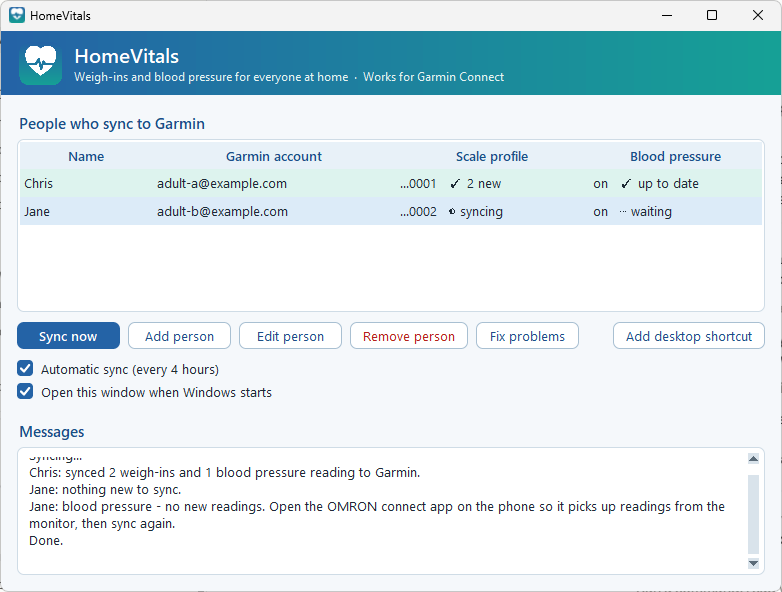
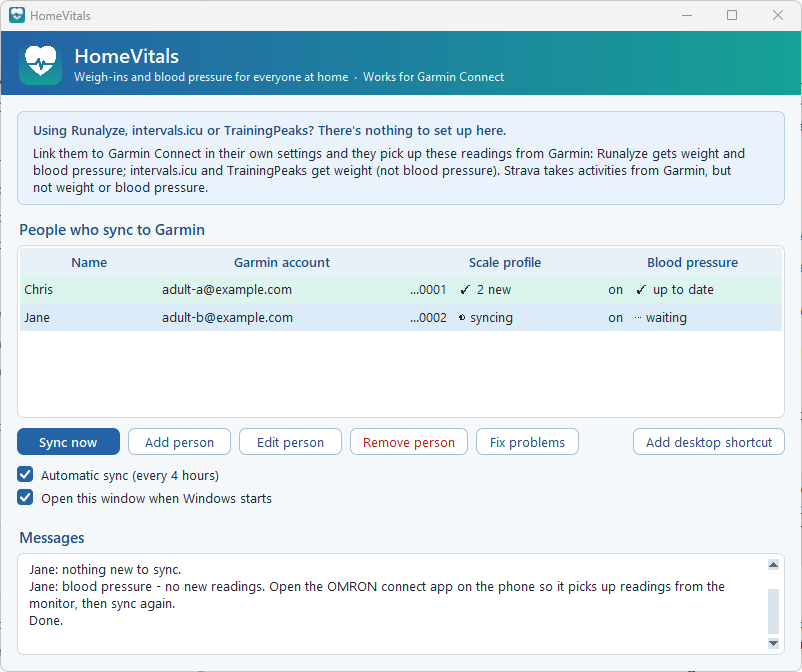
1.0.1: note that Runalyze, intervals.icu and TrainingPeaks need no setup in HomeVitals
They import the readings from Garmin Connect (Runalyze: weight and blood pressure;
intervals.icu and TrainingPeaks: weight). Strava imports activities only.

diff --git a/homevitals/gui.py b/homevitals/gui.py
@@ -95,7 +95,7 @@ class App:
         self.tray = None                 # set by main() when the tray icon is showing
         self._told_about_tray = False
         root.title(TITLE)
-        root.minsize(780, 540)
+        root.minsize(780, 600)
         root.protocol("WM_DELETE_WINDOW", self.on_close)
         icon = gui_logic.icon_path()
         if icon is not None:
@@ -115,6 +115,14 @@ class App:
 
         outer = ttk.Frame(root, padding=(PAD * 2, PAD * 2, PAD * 2, PAD * 2))
         outer.pack(fill="both", expand=True)
+
+        note = ttk.Frame(outer, style="Note.TFrame", padding=(PAD + 6, PAD, PAD + 6, PAD))
+        note.pack(fill="x", pady=(0, PAD + 4))
+        self.other_apps_note = note
+        ttk.Label(note, text=gui_logic.OTHER_APPS_NOTE_TITLE, style="NoteTitle.TLabel", wraplength=720,
+                  justify="left").pack(anchor="w")
+        ttk.Label(note, text=gui_logic.OTHER_APPS_NOTE, style="Note.TLabel", wraplength=720,
+                  justify="left").pack(anchor="w", pady=(2, 0))
 
         ttk.Label(outer, text="People who sync to Garmin", style="Title.TLabel").pack(anchor="w")
         self.list_frame = ttk.Frame(outer, style="Panel.TFrame", padding=(3, 3))

diff --git a/homevitals/theme.py b/homevitals/theme.py
@@ -27,6 +27,8 @@ MUTED = "#5B6B78"
 DANGER = "#B42318"
 DISABLED_TEXT = "#9AA8B3"
 SELECTED = "#C9DFF2"
+NOTE_BG = "#EAF3FB"
+NOTE_BORDER = "#B7D3EC"
 
 FONT = ("Segoe UI", 10)
 FONT_BOLD = ("Segoe UI Semibold", 10)
@@ -215,6 +217,12 @@ def apply(root: tk.Misc) -> ttk.Style:
     # Cards: the account boxes (window colour inside) and the white panels (list, messages).
     _element(style, "Card.border", root, {"": (BG, BORDER)})
     _element(style, "Panel.border", root, {"": (PANEL, BORDER)})
+    # The soft blue note card (other apps that get the readings from Garmin).
+    _element(style, "Note.border", root, {"": (NOTE_BG, NOTE_BORDER)})
+    style.layout("Note.TFrame", [("Note.border", {"sticky": "nsew"})])
+    style.configure("Note.TFrame", background=NOTE_BG)
+    style.configure("Note.TLabel", background=NOTE_BG, foreground=TEXT)
+    style.configure("NoteTitle.TLabel", background=NOTE_BG, foreground=BLUE_DARK, font=FONT_BOLD)
     style.layout("Card.TFrame", [("Card.border", {"sticky": "nsew"})])
     style.layout("Panel.TFrame", [("Panel.border", {"sticky": "nsew"})])
     style.configure("Card.TFrame", background=BG)

diff --git a/homevitals/gui_logic.py b/homevitals/gui_logic.py
@@ -1183,6 +1183,16 @@ OLD_SHORTCUT_NAMES = ("Health Sync for Garmin", "Household scale sync")
 GUI_LAUNCHER = "homevitals-gui"
 
 
+# Other apps that already get these readings from Garmin Connect, so nothing needs setting
+# up in HomeVitals for them. Checked against each service's own help pages and developer
+# posts (2026-10): Runalyze imports weight and blood pressure from Garmin; intervals.icu
+# and TrainingPeaks import weight but not blood pressure; Strava imports activities only.
+OTHER_APPS_NOTE_TITLE = "Using Runalyze, intervals.icu or TrainingPeaks? There's nothing to set up here."
+OTHER_APPS_NOTE = ("Link them to Garmin Connect in their own settings and they pick up these readings from Garmin: "
+                   "Runalyze gets weight and blood pressure; intervals.icu and TrainingPeaks get weight (not blood "
+                   "pressure). Strava takes activities from Garmin, but not weight or blood pressure.")
+
+
 def icon_png_path() -> Path | None:
     """The logo as a PNG (for the window's header band)."""
     path = Path(__file__).with_name("assets") / "app_icon.png"

diff --git a/tests/test_gui.py b/tests/test_gui.py
@@ -886,3 +886,15 @@ def test_old_named_pin_is_rewritten_only_when_it_points_elsewhere(tmp_path, monk
     # Only the pinned old-named copy is checked (desktop ones get the new name instead), and it's already right.
     assert len(asked) == 1 and str(old_pin) in asked[0] and str(desktop_old) not in asked[0]
     assert scripts == []
+
+
+def test_main_window_says_which_other_apps_need_no_setup(root, tmp_path):
+    app = gui.App(root, config_path=tmp_path / "config.yaml")
+    texts = [w.cget("text") for w in app.other_apps_note.winfo_children()]
+    assert texts == [gui.gui_logic.OTHER_APPS_NOTE_TITLE, gui.gui_logic.OTHER_APPS_NOTE]
+    note = " ".join(texts)
+    for service in ("Runalyze", "intervals.icu", "TrainingPeaks", "Strava"):
+        assert service in note
+    # Only what the services' own pages confirm: Runalyze is the one that gets blood pressure.
+    assert "Runalyze gets weight and blood pressure" in note
+    assert "not weight or blood pressure" in note

diff --git a/homevitals/__init__.py b/homevitals/__init__.py
@@ -1,6 +1,6 @@
 """Sync Eufy smart scale body composition data to Garmin Connect and Strava."""
 
-__version__ = "1.0.0"
+__version__ = "1.0.1"
 
 # Public API for programmatic use
 from homevitals.eufy_client import EufyClient, EufyMeasurement

diff --git a/README.md b/README.md
@@ -64,6 +64,19 @@ Then click **Sync now**, and tick **Automatic sync (every 4 hours)**. While a sy
 
 **Numbers are never changed.** Readings go to Garmin exactly as measured. One that Garmin won't accept is skipped and reported, never rounded.
 
+## Runalyze, intervals.icu, TrainingPeaks and Strava
+
+You don't connect these in HomeVitals. Many training apps already get health readings from Garmin Connect, so once HomeVitals puts a reading in Garmin, they pick it up by themselves. Link each one to Garmin Connect in its own settings:
+
+| App | Gets from Garmin Connect | Source |
+|---|---|---|
+| Runalyze | Weight and blood pressure (also resting heart rate, sleep, HRV) | [Runalyze changelog](https://runalyze.com/changelog?_locale=en): weight 2020, blood pressure 2022 |
+| intervals.icu | Weight and body fat %, **not blood pressure** | [weight](https://forum.intervals.icu/t/garmin-health-snapshots-supported/9150), [body fat](https://forum.intervals.icu/t/body-fat-from-garmin-now-supported/108339) (developer's posts) |
+| TrainingPeaks | Weight | [TrainingPeaks help](https://help.trainingpeaks.com/hc/en-us/articles/204070864) |
+| Strava | Activities only, **not weight or blood pressure** | [Garmin and Strava](https://support.strava.com/hc/en-us/articles/216918057-Garmin-and-Strava) |
+
+Checked in October 2026. These apps change what they import, so their own pages have the final word.
+
 ## Privacy and security
 
 - Everything runs on your own computer. HomeVitals talks only to Eufy, OMRON and Garmin, with the accounts you give it.

diff --git a/CHANGELOG.md b/CHANGELOG.md
@@ -1,5 +1,10 @@
 # Changelog
 
+## 1.0.1
+
+- A note at the top of the window: Runalyze, intervals.icu and TrainingPeaks get these readings from Garmin Connect, so there's nothing to set up for them here (Runalyze: weight and blood pressure; intervals.icu and TrainingPeaks: weight). Strava takes activities from Garmin, but not weight or blood pressure. The README lists the sources.
+- The launcher path for shortcuts and automatic sync keeps its spelling when completed (fixes the tests on machines with a `C:	ools` folder).
+
 ## 1.0.0
 
 First release of HomeVitals, a fork of [eufy-sync](https://github.com/sturimcode/eufy-sync) 1.13.2 for whole households.
